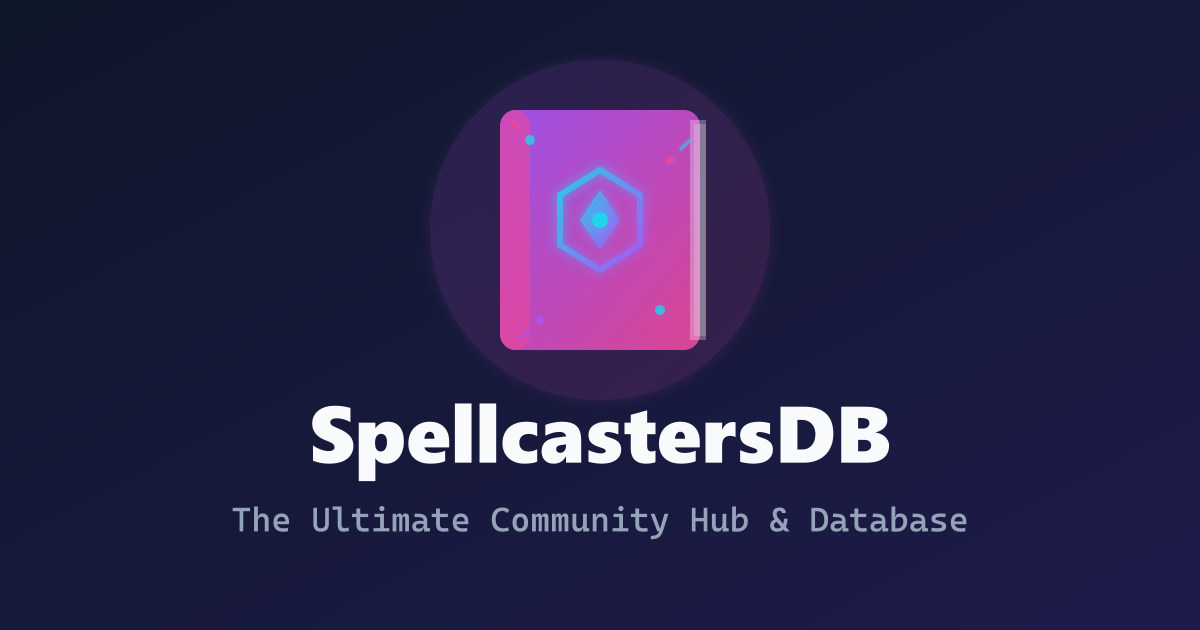
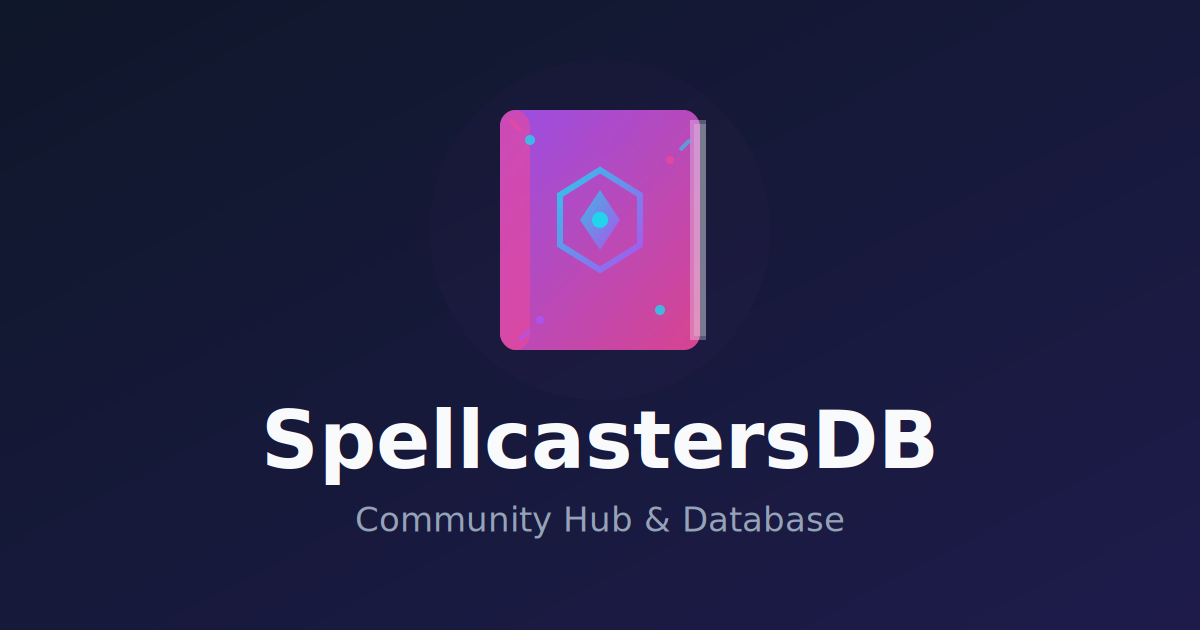
style(assets): sterilize default og image tone

Changed region(s): [[0.185, 0.2714, 0.8017, 0.8444], [0.4625, 0.2714, 0.5242, 0.3921]]

diff --git a/src/features/shared/deck/ui/DraggableCard.tsx b/src/features/shared/deck/ui/DraggableCard.tsx
@@ -2,14 +2,12 @@ import React, { useCallback, useEffect, useMemo, useRef } from "react";
 
 import { useDraggable } from "@dnd-kit/core";
 import {
-  Check,
   HelpCircle,
   Plus,
   Shield,
   Sparkles,
   Swords,
   Wand2,
-  X,
 } from "lucide-react";
 
 import { RankBadge } from "@/components/ui/rank-badge";
@@ -24,14 +22,10 @@ import {
   getCardAltText,
   getCardImageUrl,
 } from "@/services/assets/asset-helpers";
-import {
-  SHOW_VERSION_BADGES_DEV,
-  isNewEntity,
-  isUpdatedToEA,
-} from "@/services/config/entity-version-utils";
+import { isNewEntity } from "@/services/config/entity-version-utils";
 import { CLASS_STYLES } from "@/services/config/rank-class-styles";
 import { DECK_THEMES, DeckThemeIndex } from "@/services/config/theme-constants";
-import { Spellcaster, StatChangeEntry, Unit } from "@/types/api";
+import { Spellcaster, Unit } from "@/types/api";
 import { BrowserItem } from "@/types/browser";
 import { DragData } from "@/types/dnd";
 
@@ -60,12 +54,7 @@ export const DraggableCard = React.memo(function DraggableCard({
   const spellcasterClass = isSpellcaster ? (item as Spellcaster).class : null;
 
   // Version badge state
-  const statChanges =
-    "stat_changes" in item
-      ? (item as { stat_changes?: StatChangeEntry[] }).stat_changes
-      : undefined;
   const isNew = isNewEntity(id);
-  const isVerified = isUpdatedToEA(id, statChanges);
 
   const draggableData = useMemo<DragData>(
     () => ({
@@ -248,61 +237,17 @@ export const DraggableCard = React.memo(function DraggableCard({
         )}
 
         {/* Version Badges — Bottom Left */}
-        {SHOW_VERSION_BADGES_DEV && (
-          <div className="absolute bottom-[clamp(30px,2.5vw,44px)] left-1 flex flex-col items-start gap-0.5 z-20 pointer-events-auto scale-90 lg:scale-100 origin-bottom-left">
-            {/* NEW Badge */}
-            {isNew && (
-              <div className="flex items-center gap-0.5 px-1.5 py-0.5 rounded-md bg-linear-to-r from-fuchsia-600/95 to-violet-600/95 border border-fuchsia-400/50 shadow-[0_0_12px_rgba(217,70,239,0.4)] backdrop-blur-sm">
-                <Sparkles className="w-[clamp(10px,0.7vw,14px)] h-[clamp(10px,0.7vw,14px)] text-fuchsia-100" />
-                <span className="text-[clamp(8px,0.6vw,11px)] font-black uppercase tracking-widest text-white leading-none">
-                  New
-                </span>
-              </div>
-            )}
-
-            {/* EA Verification Badge */}
-            {!isNew && (
-              <Tooltip>
-                <TooltipTrigger asChild>
-                  <div
-                    className={cn(
-                      "flex items-center justify-center w-[clamp(16px,1.2vw,22px)] h-[clamp(16px,1.2vw,22px)] rounded-full border shadow-sm backdrop-blur-sm cursor-help",
-                      isVerified
-                        ? "bg-status-success/20 border-status-success/50 text-status-success"
-                        : "bg-status-danger/20 border-status-danger/50 text-status-danger"
-                    )}
-                    role="presentation"
-                    onClick={(e) => e.stopPropagation()}
-                    onPointerDown={(e) => e.stopPropagation()}
-                  >
-                    {isVerified ? (
-                      <Check
-                        className="w-[clamp(10px,0.8vw,14px)] h-[clamp(10px,0.8vw,14px)]"
-                        strokeWidth={3}
-                      />
-                    ) : (
-                      <X
-                        className="w-[clamp(10px,0.8vw,14px)] h-[clamp(10px,0.8vw,14px)]"
-                        strokeWidth={3}
-                      />
-                    )}
-                  </div>
-                </TooltipTrigger>
-                <TooltipContent
-                  side="bottom"
-                  className={cn(
-                    "z-50 font-bold uppercase tracking-wider text-xs border",
-                    isVerified
-                      ? "bg-surface-overlay-heavy border-status-success/30 text-status-success"
-                      : "bg-surface-overlay-heavy border-status-danger/30 text-status-danger"
-                  )}
-                >
-                  <p>{isVerified ? "Updated to EA" : "Not updated to EA"}</p>
-                </TooltipContent>
-              </Tooltip>
-            )}
-          </div>
-        )}
+        <div className="absolute bottom-[clamp(30px,2.5vw,44px)] left-1 flex flex-col items-start gap-0.5 z-20 pointer-events-auto scale-90 lg:scale-100 origin-bottom-left">
+          {/* NEW Badge */}
+          {isNew && (
+            <div className="flex items-center gap-0.5 px-1.5 py-0.5 rounded-md bg-linear-to-r from-fuchsia-600/95 to-violet-600/95 border border-fuchsia-400/50 shadow-[0_0_12px_rgba(217,70,239,0.4)] backdrop-blur-sm">
+              <Sparkles className="w-[clamp(10px,0.7vw,14px)] h-[clamp(10px,0.7vw,14px)] text-fuchsia-100" />
+              <span className="text-[clamp(8px,0.6vw,11px)] font-black uppercase tracking-widest text-white leading-none">
+                New
+              </span>
+            </div>
+          )}
+        </div>
 
         {/* Deck Usage Badges (Team Mode) */}
         {otherDeckIndices && otherDeckIndices.length > 0 && (

diff --git a/src/components/inspector/EntityShowcase.tsx b/src/components/inspector/EntityShowcase.tsx
@@ -2,7 +2,7 @@
 
 import Link from "next/link";
 
-import { ArrowLeft, Check, Sparkles, X as XIcon } from "lucide-react";
+import { ArrowLeft, Sparkles } from "lucide-react";
 
 import { TextWithLinks } from "@/components/common/TextWithLinks";
 import { EntityMechanics } from "@/components/entity-card/EntityMechanics";
@@ -21,12 +21,8 @@ import {
   getCardAltText,
   getCardImageUrl,
 } from "@/services/assets/asset-helpers";
-import {
-  SHOW_VERSION_BADGES_DEV,
-  isNewEntity,
-  isUpdatedToEA,
-} from "@/services/config/entity-version-utils";
-import { Spell, Spellcaster, StatChangeEntry, Titan, Unit } from "@/types/api";
+import { isNewEntity } from "@/services/config/entity-version-utils";
+import { Spell, Spellcaster, Titan, Unit } from "@/types/api";
 import type { UnifiedEntity } from "@/types/api";
 import type { PatchEntry, TimelineEntry } from "@/types/patch-history";
 
@@ -60,15 +56,8 @@ export function EntityShowcase({
   relatedEntities = [],
   relatedTitle,
 }: EntityShowcaseProps) {
-  const showVersionBadges = SHOW_VERSION_BADGES_DEV;
-
   const id = item.entity_id;
-  const statChanges =
-    "stat_changes" in item
-      ? (item as { stat_changes?: StatChangeEntry[] }).stat_changes
-      : undefined;
   const isNew = isNewEntity(id);
-  const isVerified = isUpdatedToEA(id, statChanges);
 
   // Type Guards
   const isSpellcaster = "spellcaster_id" in item;
@@ -172,37 +161,16 @@ export function EntityShowcase({
               <div className="absolute inset-0 bg-linear-to-t from-surface-card via-transparent to-transparent z-20 pointer-events-none" />
 
               {/* Version Badges overlaid on top-left of image */}
-              {showVersionBadges && (
-                <div className="absolute top-3 left-3 flex flex-col items-start gap-1.5 z-30">
-                  {isNew && (
-                    <div className="flex items-center gap-1.5 px-2.5 py-1.5 rounded-lg bg-linear-to-r from-fuchsia-600/95 to-violet-600/95 border border-fuchsia-400/50 shadow-[0_4px_20px_rgba(217,70,239,0.5)] backdrop-blur-md">
-                      <Sparkles className="w-4 h-4 text-fuchsia-100" />
-                      <span className="text-[12px] font-black uppercase tracking-widest text-white leading-none mt-0.5">
-                        New
-                      </span>
-                    </div>
-                  )}
-                  {!isNew && (
-                    <div
-                      className={`flex items-center gap-1.5 px-2 py-1 rounded border shadow-lg backdrop-blur-md cursor-help ${
-                        isVerified
-                          ? "bg-status-success/20 border-status-success/50 text-status-success hover:bg-status-success/30"
-                          : "bg-status-danger/20 border-status-danger/50 text-status-danger hover:bg-status-danger/30"
-                      }`}
-                      title={isVerified ? "Updated to EA" : "Not updated to EA"}
-                    >
-                      {isVerified ? (
-                        <Check className="w-3.5 h-3.5" strokeWidth={3} />
-                      ) : (
-                        <XIcon className="w-3.5 h-3.5" strokeWidth={3} />
-                      )}
-                      <span className="text-[11px] font-extrabold uppercase tracking-wider leading-none mt-0.5">
-                        {isVerified ? "EA Verified" : "Pre-EA"}
-                      </span>
-                    </div>
-                  )}
-                </div>
-              )}
+              <div className="absolute top-3 left-3 flex flex-col items-start gap-1.5 z-30">
+                {isNew && (
+                  <div className="flex items-center gap-1.5 px-2.5 py-1.5 rounded-lg bg-linear-to-r from-fuchsia-600/95 to-violet-600/95 border border-fuchsia-400/50 shadow-[0_4px_20px_rgba(217,70,239,0.5)] backdrop-blur-md">
+                    <Sparkles className="w-4 h-4 text-fuchsia-100" />
+                    <span className="text-[12px] font-black uppercase tracking-widest text-white leading-none mt-0.5">
+                      New
+                    </span>
+                  </div>
+                )}
+              </div>
 
               {/* Badges overlaid on bottom of image */}
               <div className="absolute bottom-3 left-3 right-3 flex justify-between items-end z-30">

diff --git a/src/features/shared/inspector/InspectorHeader.tsx b/src/features/shared/inspector/InspectorHeader.tsx
@@ -1,6 +1,6 @@
 "use client";
 
-import { ArrowLeft, Check, Sparkles, X as XIcon } from "lucide-react";
+import { ArrowLeft, Sparkles } from "lucide-react";
 
 import { GameImage } from "@/components/ui/GameImage";
 import { Button } from "@/components/ui/button";
@@ -9,19 +9,8 @@ import {
   getCardAltText,
   getCardImageUrl,
 } from "@/services/assets/asset-helpers";
-import {
-  SHOW_VERSION_BADGES_DEV,
-  isNewEntity,
-  isUpdatedToEA,
-} from "@/services/config/entity-version-utils";
-import {
-  Spell,
-  Spellcaster,
-  StatChangeEntry,
-  Titan,
-  UnifiedEntity,
-  Unit,
-} from "@/types/api";
+import { isNewEntity } from "@/services/config/entity-version-utils";
+import { Spell, Spellcaster, Titan, UnifiedEntity, Unit } from "@/types/api";
 
 interface InspectorHeaderProps {
   item: UnifiedEntity;
@@ -59,14 +48,8 @@ export function InspectorHeader({ item, onBack }: InspectorHeaderProps) {
   const magicSchool = magicSchoolRaw === "Titan" ? null : magicSchoolRaw;
 
   // Version badging
-  const showVersionBadges = SHOW_VERSION_BADGES_DEV;
   const id = item.entity_id;
-  const statChanges =
-    "stat_changes" in item
-      ? (item as { stat_changes?: StatChangeEntry[] }).stat_changes
-      : undefined;
   const isNew = isNewEntity(id);
-  const isVerified = isUpdatedToEA(id, statChanges);
 
   return (
     <div className="w-full h-[140px] relative flex items-center justify-center overflow-hidden shrink-0 bg-surface-main">
@@ -144,37 +127,16 @@ export function InspectorHeader({ item, onBack }: InspectorHeaderProps) {
       </div>
 
       {/* Version Badges - Bottom Left */}
-      {showVersionBadges && (
-        <div className="absolute bottom-2 left-2 flex flex-col items-start gap-1 z-30 pointer-events-auto">
-          {isNew && (
-            <div className="flex items-center gap-1 px-2 py-1 rounded-md bg-linear-to-r from-fuchsia-600/95 to-violet-600/95 border border-fuchsia-400/50 shadow-[0_2px_10px_rgba(217,70,239,0.4)] backdrop-blur-sm">
-              <Sparkles className="w-3.5 h-3.5 text-fuchsia-100" />
-              <span className="text-[10px] font-black uppercase tracking-widest text-white leading-none">
-                New
-              </span>
-            </div>
-          )}
-          {!isNew && (
-            <div
-              className={`flex items-center gap-1 px-1.5 py-0.5 rounded border shadow-sm backdrop-blur-sm ${
-                isVerified
-                  ? "bg-status-success/20 border-status-success/50 text-status-success"
-                  : "bg-status-danger/20 border-status-danger/50 text-status-danger"
-              }`}
-              title={isVerified ? "Updated to EA" : "Not updated to EA"}
-            >
-              {isVerified ? (
-                <Check className="w-3 h-3" strokeWidth={3} />
-              ) : (
-                <XIcon className="w-3 h-3" strokeWidth={3} />
-              )}
-              <span className="text-[10px] font-extrabold uppercase tracking-wider leading-none">
-                {isVerified ? "EA Verified" : "Pre-EA"}
-              </span>
-            </div>
-          )}
-        </div>
-      )}
+      <div className="absolute bottom-2 left-2 flex flex-col items-start gap-1 z-30 pointer-events-auto">
+        {isNew && (
+          <div className="flex items-center gap-1 px-2 py-1 rounded-md bg-linear-to-r from-fuchsia-600/95 to-violet-600/95 border border-fuchsia-400/50 shadow-[0_2px_10px_rgba(217,70,239,0.4)] backdrop-blur-sm">
+            <Sparkles className="w-3.5 h-3.5 text-fuchsia-100" />
+            <span className="text-[10px] font-black uppercase tracking-widest text-white leading-none">
+              New
+            </span>
+          </div>
+        )}
+      </div>
     </div>
   );
 }
